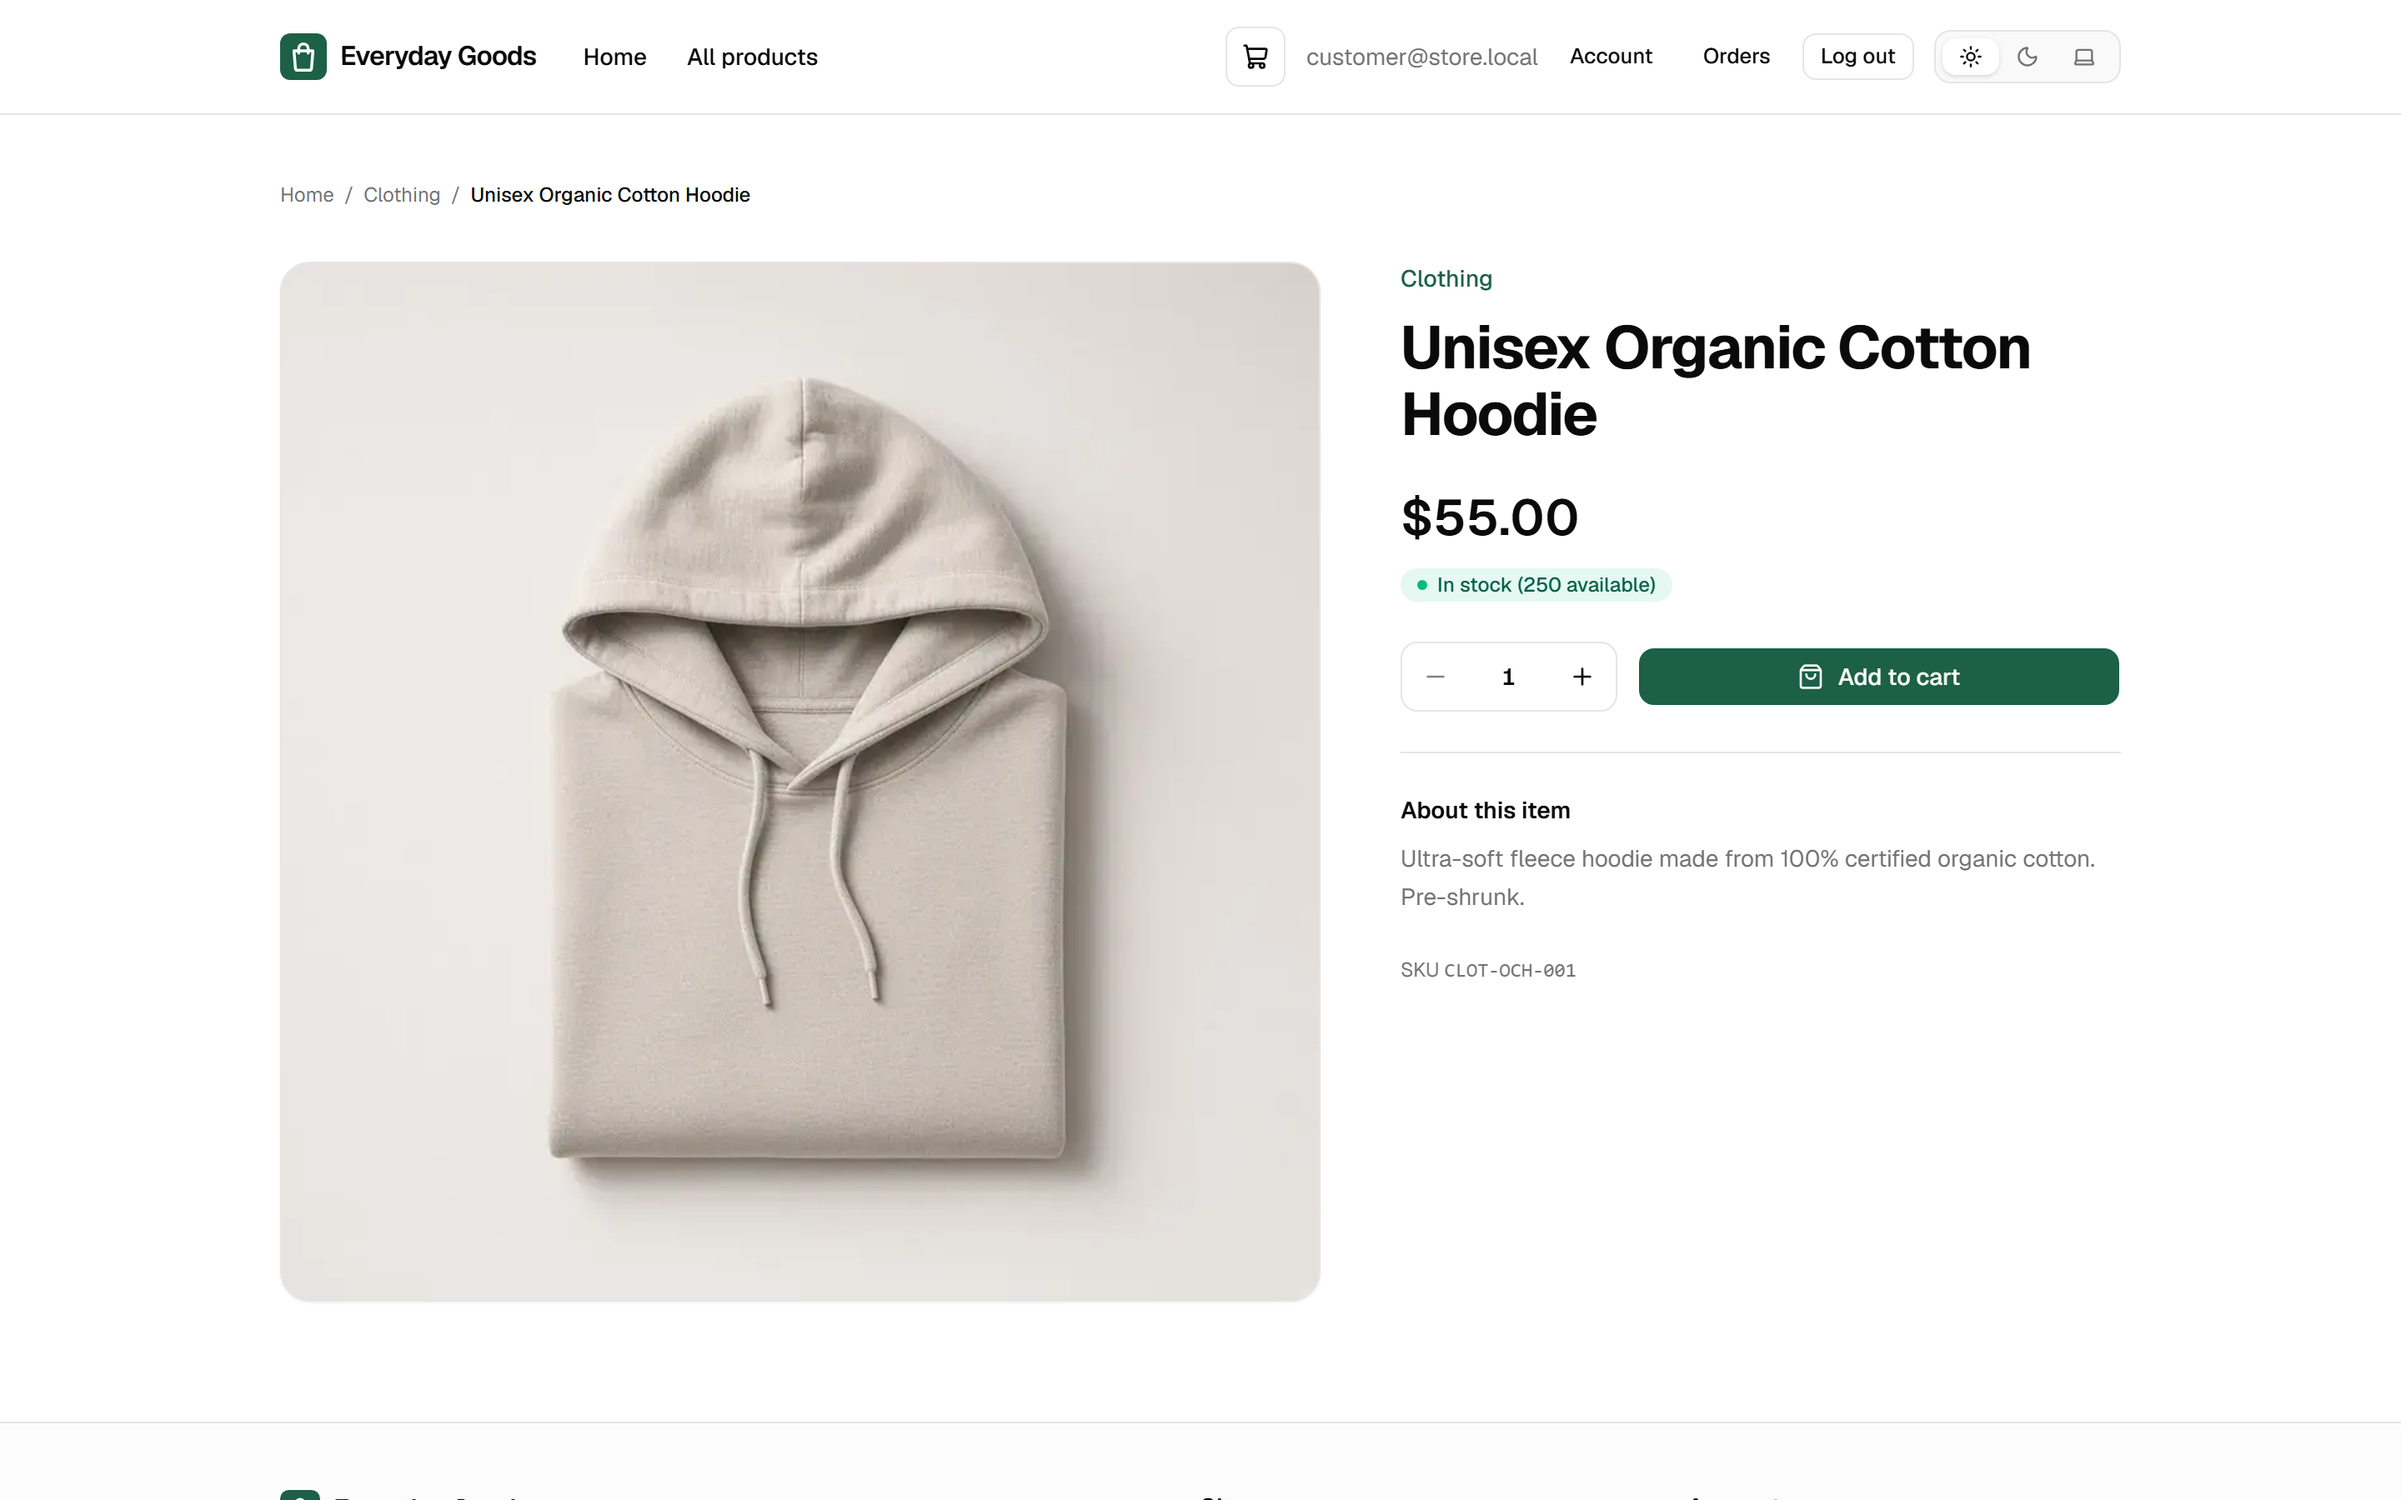
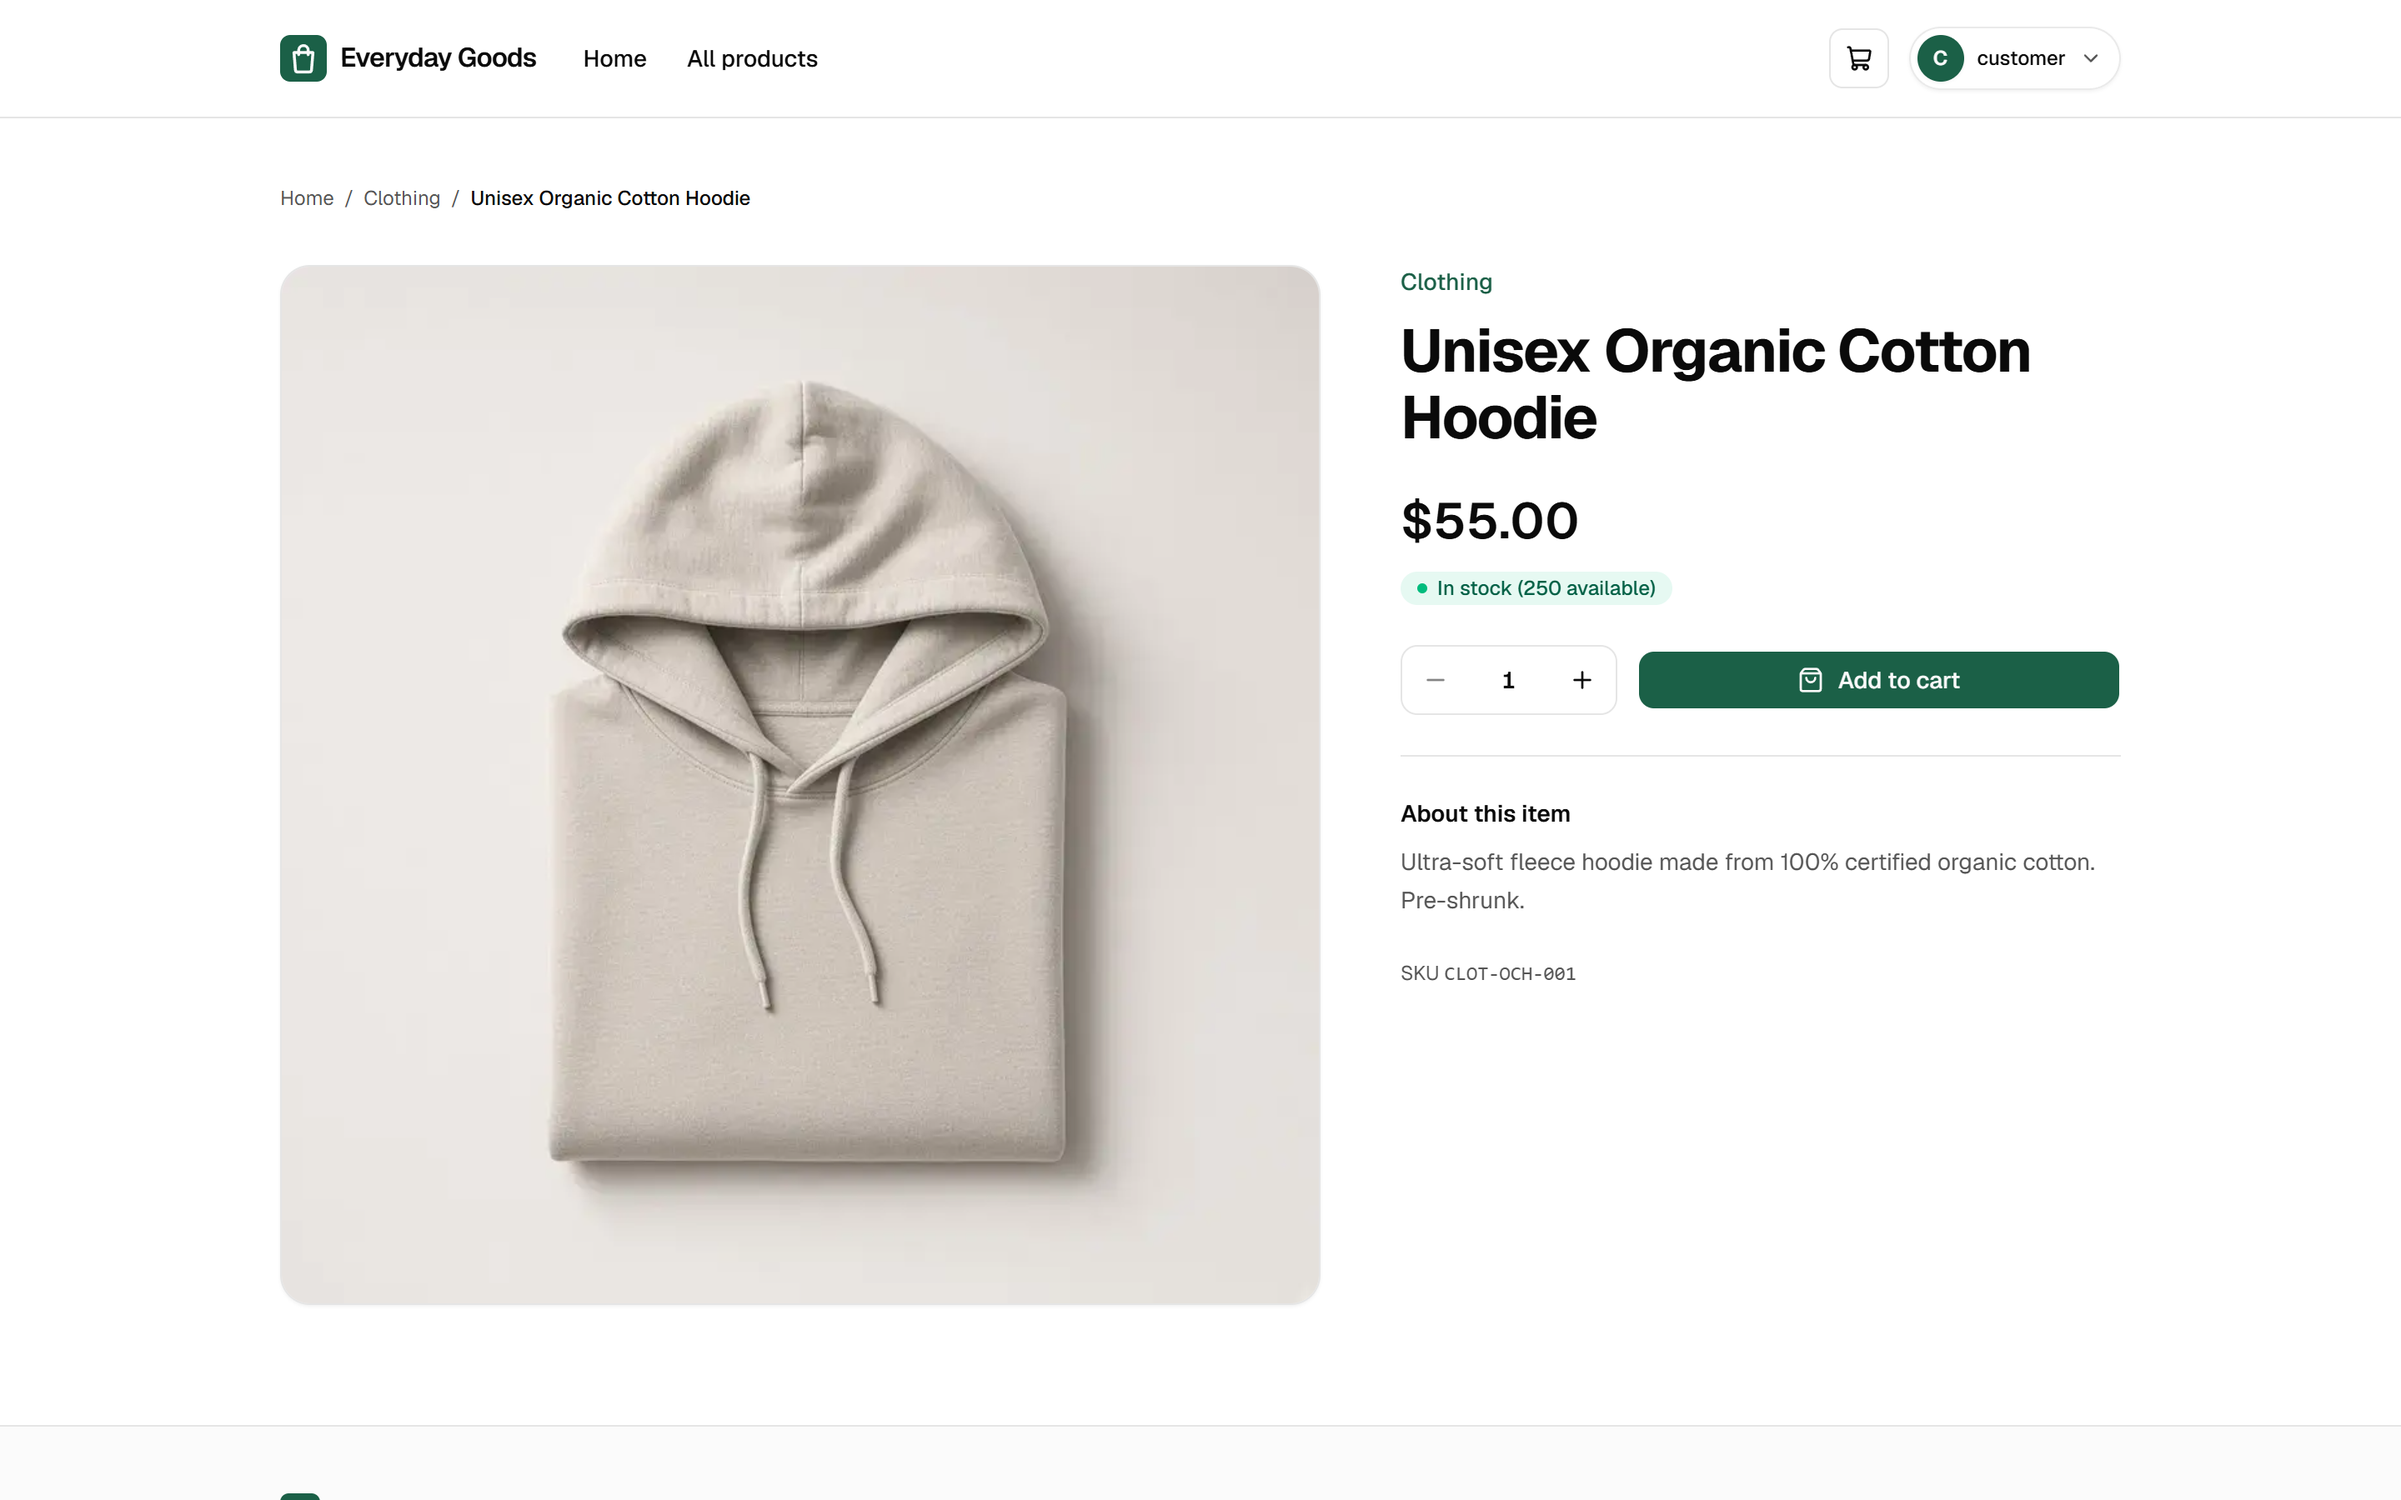
docs: retake README showcase screenshots for 0.4.0
Fold the #83 changelog notes into 0.4.0 and regenerate stills plus the walkthrough so the header user menu and contrast updates match the release.

diff --git a/scripts/capture-helpers.js b/scripts/capture-helpers.js
@@ -1,7 +1,22 @@
+import fs from 'node:fs';
+import { chromium } from '@playwright/test';
+
 export const BASE_URL = process.env.BASE_URL ?? 'http://localhost:3100';
 export const THEME_STORAGE_KEY = 'store-ui-theme';
 /** Header link text; keep in sync with `name` in src/lib/shop.ts. */
 export const shopName = 'Everyday Goods';
+
+/**
+ * Prefer bundled Chromium; fall back to installed Google Chrome when the
+ * Playwright CDN binary is missing (same idea as e2e/browser.ts).
+ */
+export async function launchCaptureBrowser() {
+  const bundled = chromium.executablePath();
+  if (fs.existsSync(bundled)) {
+    return chromium.launch({ headless: true });
+  }
+  return chromium.launch({ headless: true, channel: 'chrome' });
+}
 
 /** Force a theme for portfolio stills (`light` or `dark`). */
 export async function applyTheme(page, theme) {
@@ -88,18 +103,29 @@ export async function mockLogin(page, baseUrl = BASE_URL) {
 
 export async function waitForCatalogReady(page) {
   await page.waitForSelector('a[href^="/products/"]', { timeout: 20_000 });
+  // Category tiles can still be skeletons after the first product link appears.
+  await page
+    .getByRole('link', { name: /Electronics/i })
+    .first()
+    .waitFor({ state: 'visible', timeout: 20_000 })
+    .catch(() => undefined);
 }
 
 /** Open the full catalog through the header nav so the mock session carries over. */
+async function waitForPath(page, predicateOrRegex, timeout = 15_000) {
+  await page.waitForURL(predicateOrRegex, {
+    timeout,
+    waitUntil: 'commit',
+  });
+}
+
 export async function openCatalogViaNav(page) {
   await page
     .getByRole('navigation', { name: 'Storefront' })
     .getByRole('link', { name: 'All products' })
     .first()
     .click();
-  await page.waitForURL((url) => url.pathname === '/products', {
-    timeout: 15_000,
-  });
+  await waitForPath(page, (url) => url.pathname === '/products');
   await page.waitForSelector('h1:has-text("All products")', {
     timeout: 15_000,
   });
@@ -109,8 +135,9 @@ export async function openCatalogViaNav(page) {
 export async function openFirstProduct(page) {
   await waitForCatalogReady(page);
   const productLink = page.locator('a[href^="/products/"]').first();
-  await productLink.click();
-  await page.waitForURL(/\/products\/\d+/, { timeout: 15_000 });
+  // Product card images animate on hover; force avoids actionability stalls.
+  await productLink.click({ force: true });
+  await waitForPath(page, /\/products\/\d+/);
   await page.waitForSelector('button:has-text("Add to cart")', {
     timeout: 15_000,
   });
@@ -128,13 +155,13 @@ export async function addCurrentProductToCart(page) {
 
 export async function openCartViaHeader(page) {
   await page.click('a[aria-label^="Shopping cart"]');
-  await page.waitForURL(/\/cart/, { timeout: 15_000 });
+  await waitForPath(page, /\/cart/);
   await page.waitForSelector('text=Proceed to Checkout', { timeout: 15_000 });
 }
 
 export async function openCheckoutViaCart(page) {
   await page.click('a:has-text("Proceed to Checkout")');
-  await page.waitForURL(/\/checkout/, { timeout: 15_000 });
+  await waitForPath(page, /\/checkout/);
   await page.waitForSelector('button[type="submit"]:has-text("Place Order")', {
     timeout: 20_000,
   });

diff --git a/scripts/create-walkthrough.js b/scripts/create-walkthrough.js
@@ -1,6 +1,5 @@
 import fs from 'node:fs';
 import path from 'node:path';
-import { chromium } from '@playwright/test';
 import { createAnimatedWebp } from './create-animated-webp.js';
 import {
   addCurrentProductToCart,
@@ -9,6 +8,7 @@ import {
   hideDevOverlay,
   BASE_URL,
   fillCheckoutAddress,
+  launchCaptureBrowser,
   mockLogin,
   openCartViaHeader,
   openCatalogViaNav,
@@ -25,7 +25,7 @@ async function captureWalkthrough() {
   const height = 800;
   const frames = [];
 
-  const browser = await chromium.launch({ headless: true });
+  const browser = await launchCaptureBrowser();
   const context = await browser.newContext({
     viewport: { width, height },
     deviceScaleFactor: 1,

diff --git a/scripts/capture-showcase.js b/scripts/capture-showcase.js
@@ -1,12 +1,12 @@
 import fs from 'node:fs';
 import path from 'node:path';
-import { chromium } from '@playwright/test';
 import {
   addCurrentProductToCart,
   applyTheme,
   captureScreenshot,
   BASE_URL,
   fillCheckoutAddress,
+  launchCaptureBrowser,
   mockLogin,
   openCartViaHeader,
   openCatalogViaNav,
@@ -97,7 +97,7 @@ async function main() {
   console.log(
     `Starting storefront showcase capture at ${BASE_URL} (1440x900 @ 2x)...`,
   );
-  const browser = await chromium.launch({ headless: true });
+  const browser = await launchCaptureBrowser();
 
   await captureThemeStills(browser, assetsDir, 'dark');
   await captureThemeStills(browser, assetsDir, 'light');

diff --git a/CHANGELOG.md b/CHANGELOG.md
@@ -7,10 +7,6 @@ and this project adheres to [Semantic Versioning](https://semver.org/spec/v2.0.0
 
 ## [Unreleased]
 
-### Changed
-
-- CI runs the full Playwright suite against a seeded API on pull requests into `master` and pushes to `master`, and `CI Status Check` requires it there. The production status spec runs on every pull request.
-
 ## [0.4.0] - 2026-10-15
 
 Works with ecommerce-store-api v0.10.0 or later.
@@ -23,12 +19,15 @@ Works with ecommerce-store-api v0.10.0 or later.
 - Generated API client synced with API v0.10.0.
 - `shadcn` moved to devDependencies with vulnerable subdependencies updated; Dependabot target and CI triggers cleaned up.
 - Agent check workflow for in-chat verification (#80) and slimmer agent guidance (#70).
+- CI runs the full Playwright suite against a seeded API on pull requests into `master` and pushes to `master`, and `CI Status Check` requires it there. The production status spec runs on every pull request (#83).
+- README showcase screenshots and walkthrough regenerated for the user menu and contrast updates.
 
 ### Fixed
 
 - Add-to-cart errors are shown instead of silently creating a new cart (#75).
 - No horizontal overflow on small checkout screens (#72).
 - Custom address validation errors are shown (#71).
+- Guest mobile nav shows on auth error; muted foreground and selected country combobox meet WCAG AA; checkout custom-address fade-in removed (#83).
 
 [Compare v0.3.1...v0.4.0](https://github.com/raouf-b-dev/ecommerce-store-web/compare/v0.3.1...v0.4.0)
 
